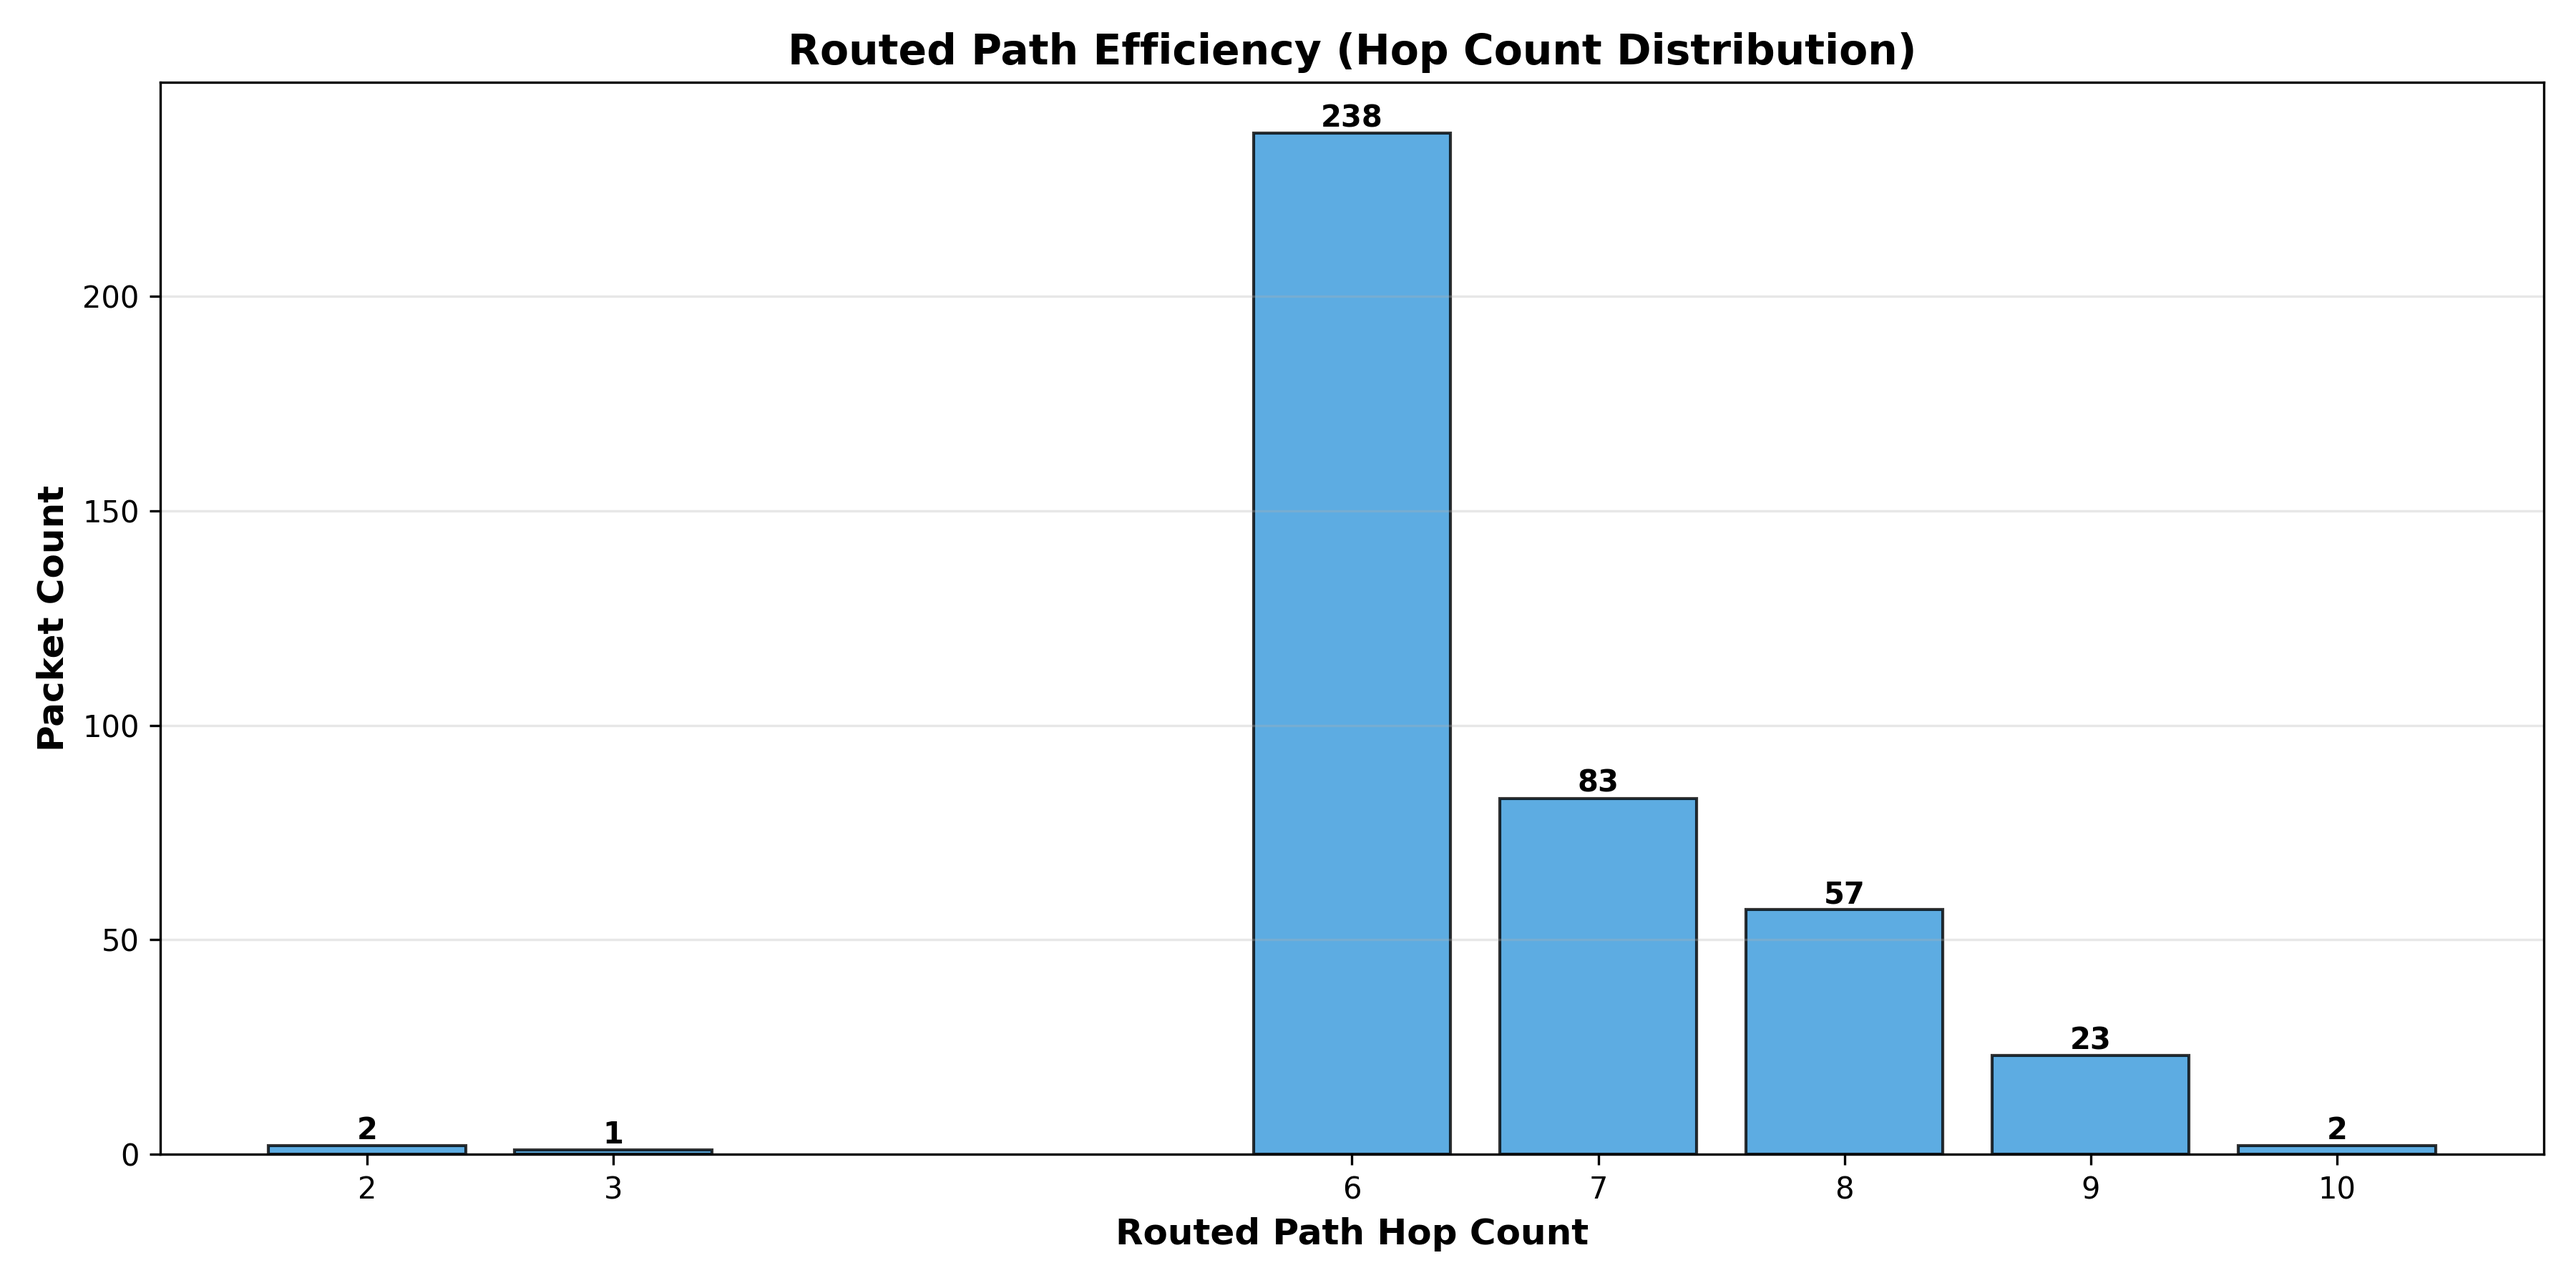
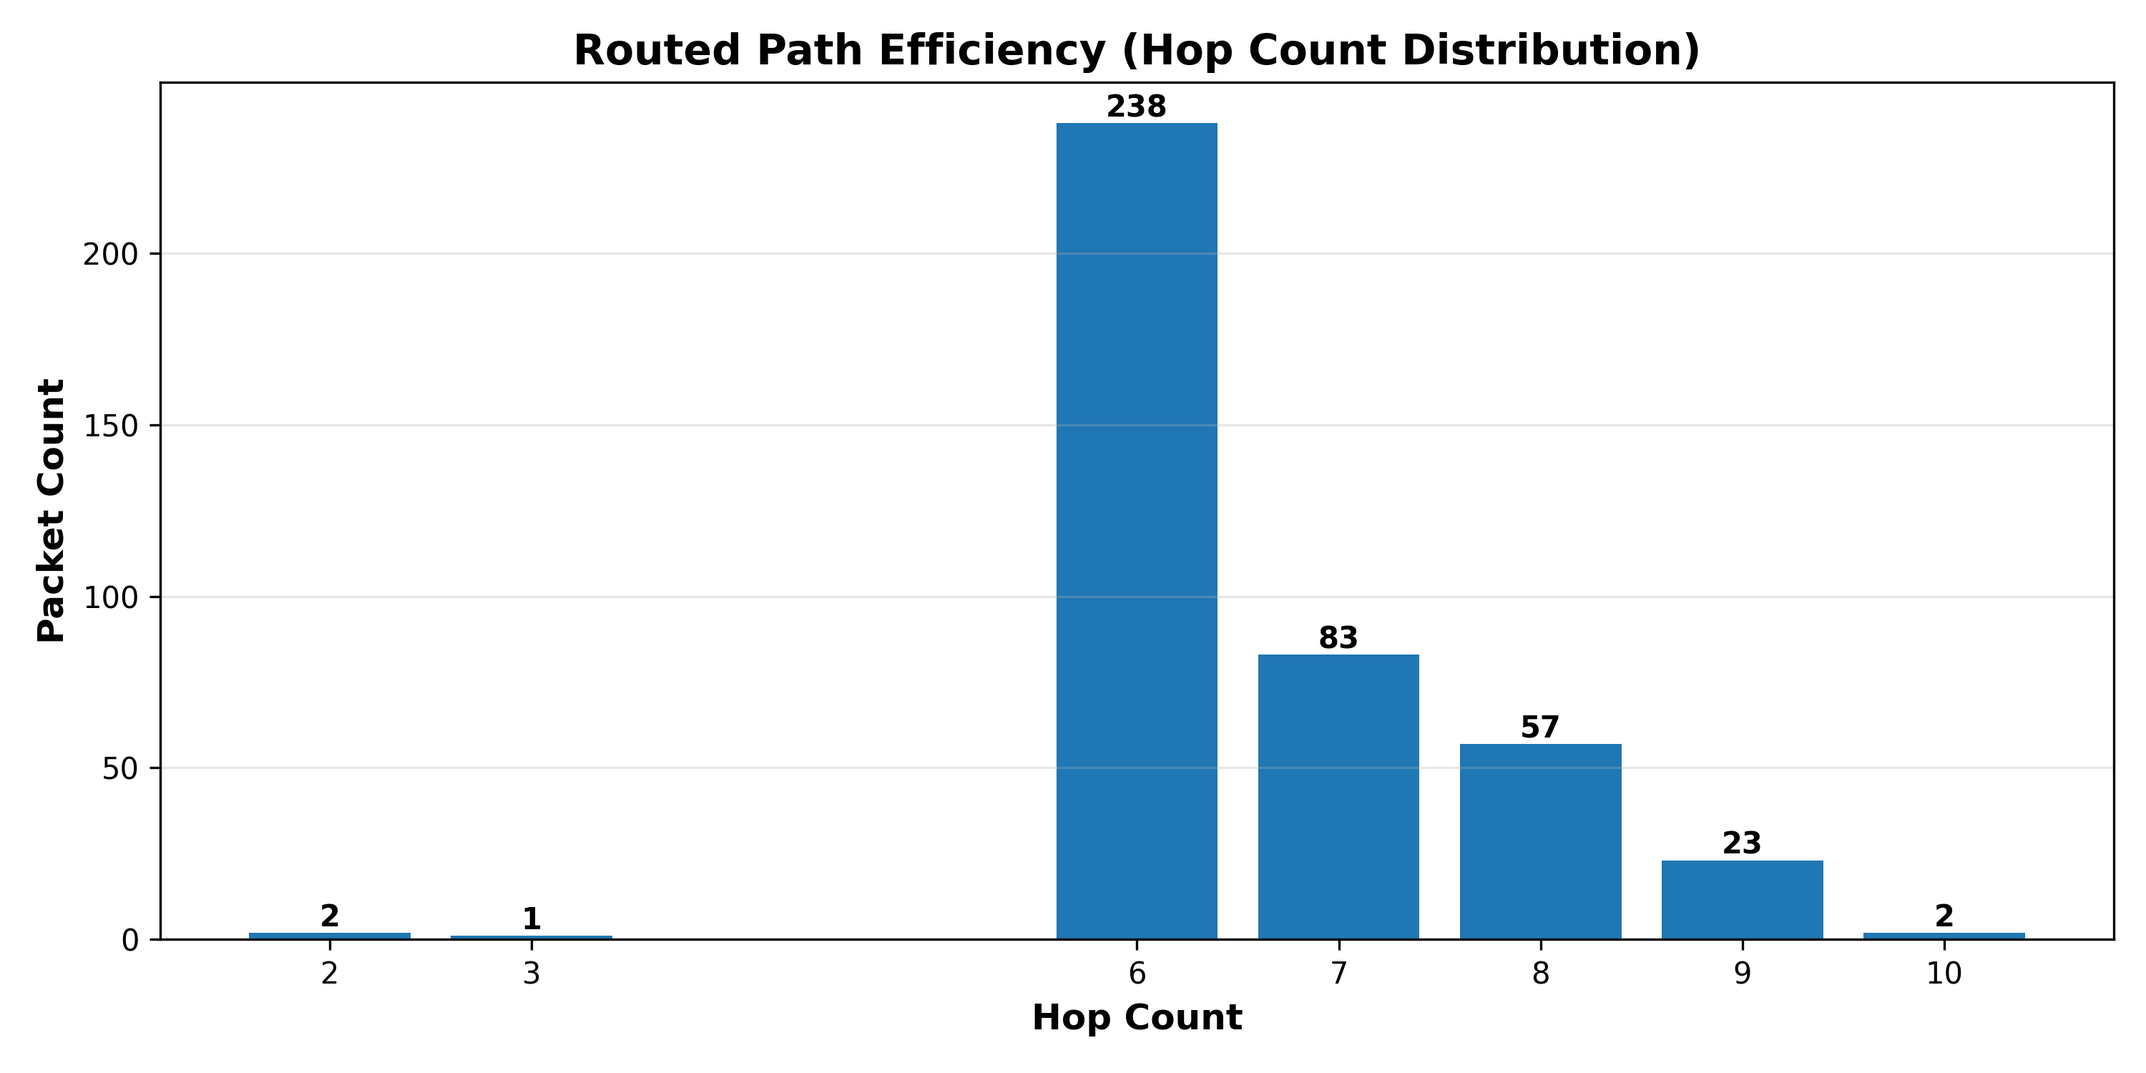
Fixed networkx errors-5

diff --git a/visualization_enhanced.py b/visualization_enhanced.py
@@ -20,61 +20,36 @@ class EnhancedVisualizations:
         os.makedirs(output_dir, exist_ok=True)
 
     def plot_path_efficiency(self, mode: str = "normal") -> str:
-        hop_sets = self.analyzer.get_hop_distributions()
-        if not hop_sets:
+        hop_counts = self.analyzer.get_hop_distribution("delivered")
+        if not hop_counts:
             print("[!] No hop data for visualization")
             return ""
 
-        delivered = hop_sets.get("delivered", {})
-        dropped = hop_sets.get("dropped", {})
-        acl_blocked = hop_sets.get("acl_blocked", {})
+        hops = sorted(hop_counts.keys())
+        counts = [hop_counts[h] for h in hops]
 
-        all_hops = sorted({*delivered.keys(), *dropped.keys(), *acl_blocked.keys()})
-        if not all_hops:
-            print("[!] Hop distributions are empty")
-            return ""
+        fig, ax = plt.subplots(figsize=(10, 5))
+        bars = ax.bar(hops, counts)
 
-        def _normalize(series):
-            total = sum(series.values())
-            return [round((series.get(h, 0) / total) * 100, 2) if total else 0 for h in all_hops]
-
-        delivered_pct = _normalize(delivered)
-        dropped_pct = _normalize(dropped)
-        acl_pct = _normalize(acl_blocked)
-
-        width = 0.25
-        x = list(range(len(all_hops)))
-
-        fig, ax = plt.subplots(figsize=(12, 6))
-        b1 = ax.bar([i - width for i in x], delivered_pct, width, label="Delivered", color="#2ecc71", alpha=0.85)
-        b2 = ax.bar(x, dropped_pct, width, label="Dropped (loss + TTL)", color="#e74c3c", alpha=0.85)
-        b3 = ax.bar([i + width for i in x], acl_pct, width, label="ACL Blocked", color="#8e44ad", alpha=0.85)
-
-        for bars, series in ((b1, delivered), (b2, dropped), (b3, acl_blocked)):
-            for bar, hop in zip(bars, all_hops):
-                count = series.get(hop, 0)
-                if count:
-                    ax.text(
-                        bar.get_x() + bar.get_width() / 2.0,
-                        bar.get_height(),
-                        f"{count}",
-                        ha="center",
-                        va="bottom",
-                        fontsize=8,
-                        fontweight="bold",
-                    )
+        for bar in bars:
+            height = bar.get_height()
+            ax.text(
+                bar.get_x() + bar.get_width() / 2,
+                height,
+                str(int(height)),
+                ha="center",
+                va="bottom",
+                fontweight="bold",
+            )
 
         ax.set_xlabel("Hop Count", fontsize=12, fontweight="bold")
-        ax.set_ylabel("Share of Packets (%)", fontsize=12, fontweight="bold")
-        ax.set_title(f"Routed Hop Distribution ({mode.upper()} Mode)", fontsize=14, fontweight="bold")
-        ax.set_xticks(x)
-        ax.set_xticklabels([str(h) for h in all_hops])
-        ax.legend()
+        ax.set_ylabel("Packet Count", fontsize=12, fontweight="bold")
+        ax.set_title("Routed Path Efficiency (Hop Count Distribution)", fontsize=14, fontweight="bold")
+        ax.set_xticks(hops)
         ax.grid(axis="y", alpha=0.3)
-        ax.set_ylim(0, max(delivered_pct + dropped_pct + acl_pct + [0]) * 1.25 + 1)
         plt.tight_layout()
 
-        filepath = os.path.join(self.output_dir, f"path_efficiency_{mode}.png")
+        filepath = os.path.join(self.output_dir, "path_efficiency.png")
         plt.savefig(filepath, dpi=self.dpi)
         plt.close()
         print(f"[OK] Visualization: {filepath}")

diff --git a/app.py b/app.py
@@ -215,7 +215,7 @@ def run_complete_simulation(config_file: str = "config.yaml") -> Tuple[Dict[str,
 
     visualizer = EnhancedVisualizations(analyzer_normal, output_dir, dpi=dpi)
     print("Generating Normal Mode Visualizations...")
-    visualizer.plot_path_efficiency(mode="normal")
+    visualizer.plot_path_efficiency()
     render_clean_topology(save_path=os.path.join(output_dir, "campus_topology.png"), dpi=dpi)
 
     output_cfg = config.get("output", {})
@@ -261,8 +261,6 @@ def run_complete_simulation(config_file: str = "config.yaml") -> Tuple[Dict[str,
 
     visualizer_exam = EnhancedVisualizations(analyzer_exam, output_dir, dpi=dpi)
     print("Generating Exam Mode Visualizations...")
-    visualizer_exam.plot_path_efficiency(mode="exam")
-
     if any(
         output_cfg.get(flag, False)
         for flag in ("export_csv", "export_json", "export_pickle")

diff --git a/README.md b/README.md
@@ -69,7 +69,6 @@ All outputs saved to `./output/`:
 #### Visualizations
 - `campus_topology.png` - Network topology overview
 - `path_efficiency.png` - Routed path hop count histogram
-- `communication_heatmap.png` - Device pair traffic matrix
 
 #### Data Exports
 - `simulation_results_normal.csv` - Packet-level data (normal)
